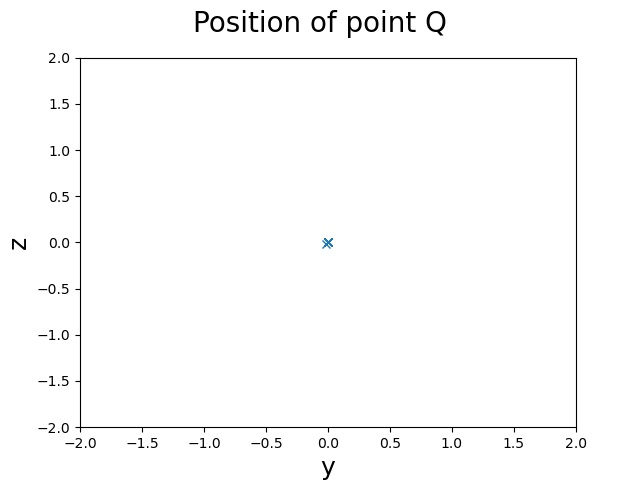
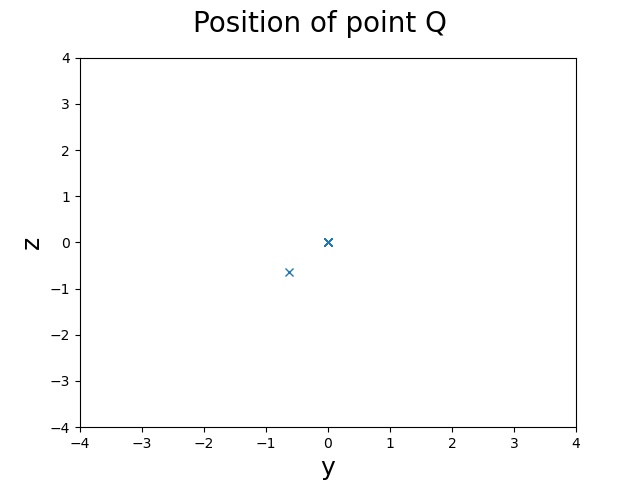
Changed constraints, O' position and velocity working
-- Changed order of constraints (shouldn't matter)
-- Changed the plane the constraints are on
-- Fixed bugs in array update of Newton-Raphson

diff --git a/hw6/simEngine3D_A6P3.py b/hw6/simEngine3D_A6P3.py
@@ -8,23 +8,31 @@ def NextNewton(phi, inv_phi_q, q_k):
 
 
 t_start = 0
-tol = 1e-6
+tol = 1e-5
 t_steps = int(t_end/Δt)
 t_grid = np.linspace(t_start, t_end, t_steps, endpoint=True)
 max_iters = 500
 
-# Get arrays to hold our y and z positions
-O_pos = np.zeros((t_steps, 2))
-Q_pos = np.zeros((t_steps, 2))
+# q0[5, 0] = 0.5
+
+# Get arrays to hold O and Q data
+O_pos = np.zeros((t_steps, 3))
+O_vel = np.zeros((t_steps, 3))
+O_acc = np.zeros((t_steps, 3))
+
+Q_pos = np.zeros((t_steps, 3))
+Q_vel = np.zeros((t_steps, 3))
+Q_acc = np.zeros((t_steps, 3))
 
 # Put in the initial values
 Q0 = A(pendulum.p) @ (-L * np.array([[1], [0], [0]]))
-O_pos[0, :] = q0[1:2, 0].T
-Q_pos[0, :] = Q0[1:2, 0].T
+O_pos[0, :] = q0[0:3, 0].T
+Q_pos[0, :] = Q0[0:3, 0].T
 
 pendulum.r = q0[0:3]
 pendulum.p = q0[3:]
 
+print(q0)
 
 # Set initial conditions
 q_k = q0
@@ -32,16 +40,10 @@ q_k = q0
 for i, t in enumerate(t_grid):
     if i == 0:
         continue
-    if i > 78:
-        break
 
     # Only get (inverse of the) Jacobian once per time step
     inv_phi_q = np.linalg.inv(g_cons.GetPhiQ(t))
     phi = g_cons.GetPhi(t)
-    # print('Inverse Jac: ')
-    # print(np.shape(inv_phi_q))
-    # print('Φ:')
-    # print(np.shape(phi))
 
     # Setup and do Newton-Raphson Iteration
     k = 0
@@ -52,6 +54,7 @@ for i, t in enumerate(t_grid):
         # Trying with the bodies updated with each q_k guess
         pendulum.r = q_k[0:3]
         pendulum.p = q_k[3:]
+        inv_phi_q = np.linalg.inv(g_cons.GetPhiQ(t))
         phi = g_cons.GetPhi(t)
 
         # Uh-oh, do we need to update the bodies as we iterate? So that phi(q, t) is updated?
@@ -63,39 +66,66 @@ for i, t in enumerate(t_grid):
                   str(max_iters) + ' iterations')
             break
 
-        print('i: ' + str(i) + ', k: ' + str(k) +
-              ', norm: ' + str(np.linalg.norm(q_k1 - q_k)))
+        # print('i: ' + str(i) + ', k: ' + str(k) +
+        #       ', norm: ' + str(np.linalg.norm(q_k1 - q_k)))
 
     pendulum.r = q_k1[0:3]
     pendulum.p = q_k1[3:]
 
+    # Once the position converges, we can compute velocity and acceleration
+    inv_phi_q = np.linalg.inv(g_cons.GetPhiQ(t))
+
+    print(g_cons.GetGamma(t))
+
+    dq_k = inv_phi_q @ g_cons.GetNu(t)
+    ddq_k = inv_phi_q @ g_cons.GetGamma(t)
+
+    # With quantities computed, fill them into our output arrays
     Q_k1 = A(pendulum.p) @ (-L * np.array([[1], [0], [0]]))
-    O_pos[0, :] = q_k1[1:2, 0].T
-    Q_pos[0, :] = Q_k1[1:2, 0].T
+    O_pos[i, :] = q_k1[0:3, 0].T
+    Q_pos[i, :] = Q_k1[0:3, 0].T
 
-fig = plt.figure()
-plt.plot(O_pos[:, 0], O_pos[:, 1], 'o')
-fig.suptitle('Position of point O′', fontsize=20)
-axes = plt.gca()
-axes.set_xlim([-2, 2])
-axes.set_ylim([-2, 2])
-plt.xlabel('y', fontsize=18)
-plt.ylabel('z', fontsize=18)
-fig.savefig('hw6/pointO.jpg')
+    O_vel[i, :] = dq_k[0:3, 0].T
+    O_acc[i, :] = ddq_k[0:3, 0].T
+
+f, (ax1, ax2, ax3) = plt.subplots(3, 1, sharex=True)
+# O′ - position
+ax1.plot(t_grid, O_pos[:, 0])
+ax1.plot(t_grid, O_pos[:, 1])
+ax1.plot(t_grid, O_pos[:, 2])
+ax1.set_title('Position of point O′')
+ax1.set_xlabel('t [s]')
+ax1.set_ylabel('Position [m]')
+
+# O′ - velocity
+ax2.plot(t_grid, O_vel[:, 0])
+ax2.plot(t_grid, O_vel[:, 1])
+ax2.plot(t_grid, O_vel[:, 2])
+ax2.set_title('Velocity of point O′')
+ax2.set_xlabel('t [s]')
+ax2.set_ylabel('Velocity [m/s]')
+
+# O′ - acceleration
+ax3.plot(t_grid, O_acc[:, 0])
+ax3.plot(t_grid, O_acc[:, 1])
+ax3.plot(t_grid, O_acc[:, 2])
+ax3.set_title('Acceleration of point O′')
+ax3.set_xlabel('t [s]')
+ax3.set_ylabel('Acceleration [m/s²]')
 
 plt.show()
 
-fig = plt.figure()
-plt.plot(Q_pos[:, 0], Q_pos[:, 1], 'x')
-fig.suptitle('Position of point Q', fontsize=20)
-axes = plt.gca()
-axes.set_xlim([-2, 2])
-axes.set_ylim([-2, 2])
-plt.xlabel('y', fontsize=18)
-plt.ylabel('z', fontsize=18)
-fig.savefig('hw6/pointQ.jpg')
+# fig = plt.figure()
+# plt.plot(Q_pos[:, 0], Q_pos[:, 1], 'x')
+# fig.suptitle('Position of point Q', fontsize=20)
+# axes = plt.gca()
+# axes.set_xlim([-4, 4])
+# axes.set_ylim([-4, 4])
+# plt.xlabel('y', fontsize=18)
+# plt.ylabel('z', fontsize=18)
+# fig.savefig('hw6/pointQ.jpg')
 
-plt.show()
+# plt.show()
 
 # For velocity solve using nu
 

diff --git a/hw6/simEngine3D_A6P2.py b/hw6/simEngine3D_A6P2.py
@@ -9,7 +9,7 @@ t_end = 10
 
 # Set up driving constraint
 t = sp.symbols('t')
-θ_sym = sp.pi/4 * sp.cos(2*t)
+θ_sym = sp.pi/2 + sp.pi/4 * sp.cos(2*t)
 f_sym = sp.cos(θ_sym)
 df_sym = sp.diff(f_sym, t)
 ddf_sym = sp.diff(df_sym, t)
@@ -34,36 +34,40 @@ dp1_drive.df = df
 dp1_drive.ddf = ddf
 
 # DP1 Constraints
-dp1_zy = CreateConstraint(constraints[1], pendulum, ground)
-dp1_zz = CreateConstraint(constraints[2], pendulum, ground)
+dp1_xx = CreateConstraint(constraints[1], pendulum, ground)
+dp1_yx = CreateConstraint(constraints[2], pendulum, ground)
 
 # CD ijk Constraints
 cd_i = CreateConstraint(constraints[3], pendulum, ground)
 cd_j = CreateConstraint(constraints[4], pendulum, ground)
 cd_k = CreateConstraint(constraints[5], pendulum, ground)
 
+cd_i.si = np.array([[-L], [0], [0]])
+cd_j.si = np.array([[-L], [0], [0]])
+cd_k.si = np.array([[-L], [0], [0]])
+
 # Signs flipped here from what you might intuitively expect
 # because of the direction we take the difference (0 - a) vs. (a - 0)
-CD_con_j = -L * sp.sin(θ_sym)
-CD_con_k = L * sp.cos(θ_sym)
+# CD_con_j = -L * sp.sin(θ_sym)
+# CD_con_k = L * sp.cos(θ_sym)
 
-cd_j.f = sp.lambdify(t, CD_con_j)
-cd_j.df = sp.lambdify(t, sp.diff(CD_con_j, t))
-cd_j.ddf = sp.lambdify(t, sp.diff(CD_con_j, t, t))
+# cd_j.f = sp.lambdify(t, CD_con_j)
+# cd_j.df = sp.lambdify(t, sp.diff(CD_con_j, t))
+# cd_j.ddf = sp.lambdify(t, sp.diff(CD_con_j, t, t))
 
-cd_k.f = sp.lambdify(t, CD_con_k)
-cd_k.df = sp.lambdify(t, sp.diff(CD_con_k, t))
-cd_k.ddf = sp.lambdify(t, sp.diff(CD_con_k, t, t))
+# cd_k.f = sp.lambdify(t, CD_con_k)
+# cd_k.df = sp.lambdify(t, sp.diff(CD_con_k, t))
+# cd_k.ddf = sp.lambdify(t, sp.diff(CD_con_k, t, t))
 
 # Euler Parameter Constraint
 e_param = EulerCon(pendulum)
 
 # Derived initializations
 θ0 = θ(t0)
-r0 = np.array([[0], [L * np.sin(θ0)], [-L * np.cos(θ0)]])
+r0 = np.array([[0], [L * np.sin(θ0)], [L * np.cos(θ0)]])
 z_axis = np.array([[0], [0], [1]])
 y_axis = np.array([[0], [1], [0]])
-p0 = (RotAxis(y_axis, np.pi/2) * RotAxis(z_axis, θ0)).arr
+p0 = (RotAxis(y_axis, np.pi/2) * RotAxis(z_axis, θ0 - np.pi/2)).arr
 
 # Didn't read these in from the file, so set them now
 pendulum.r = r0
@@ -71,7 +75,7 @@ pendulum.p = p0
 pendulum.dp = 1/2 * E(p0).T @ (dp1_drive.df(t0) * z_axis)
 
 # Group our constraints together
-g_cons = ConGroup([dp1_drive, dp1_zy, dp1_zz, cd_i, cd_j, cd_k, e_param])
+g_cons = ConGroup([cd_i, cd_j, cd_k, dp1_xx, dp1_yx, dp1_drive, e_param])
 
 # # Compute values
 Φ = g_cons.GetPhi(t0)
@@ -81,9 +85,9 @@ nu = g_cons.GetNu(t0)  # Darn, ν ≈ v in my font
 Φ_p = g_cons.GetPhiP(t0)
 Φ_q = g_cons.GetPhiQ(t0)
 
-# print(Φ)
+print(Φ)
 # print(nu)
-# print(γ)
+print(γ)
 # print(Φ_r)
 # print(Φ_p)
 # print(Φ_q)
